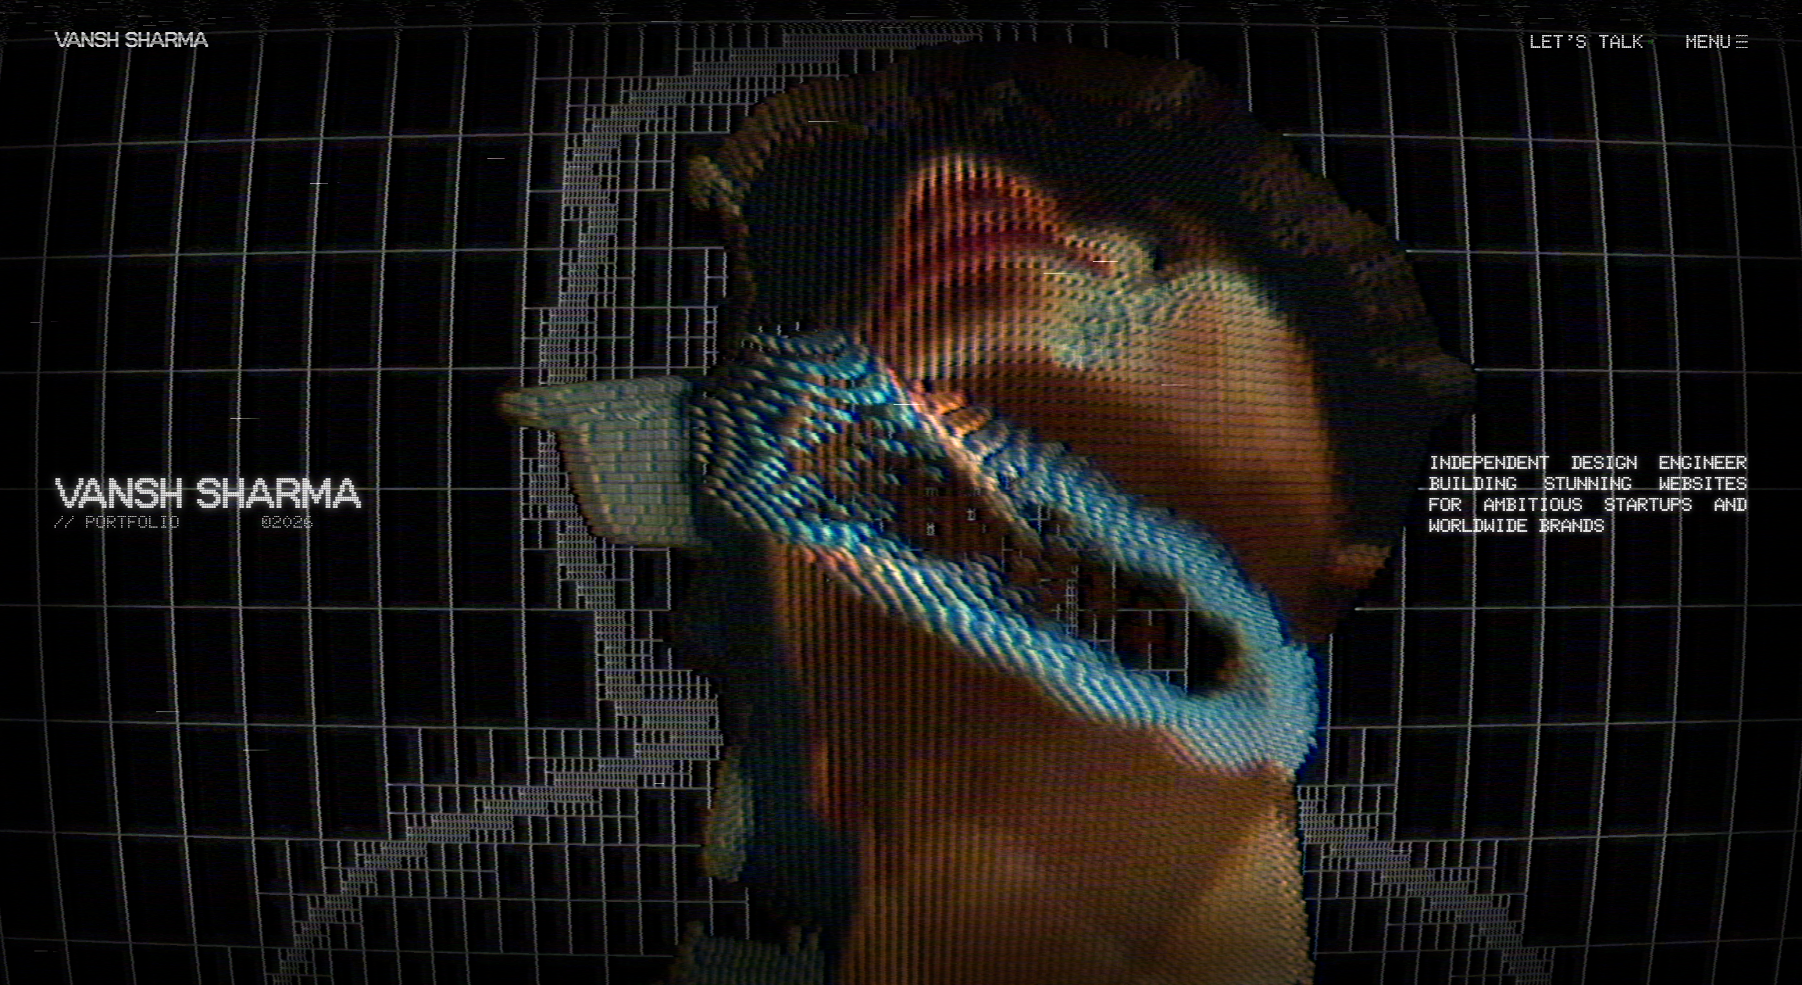
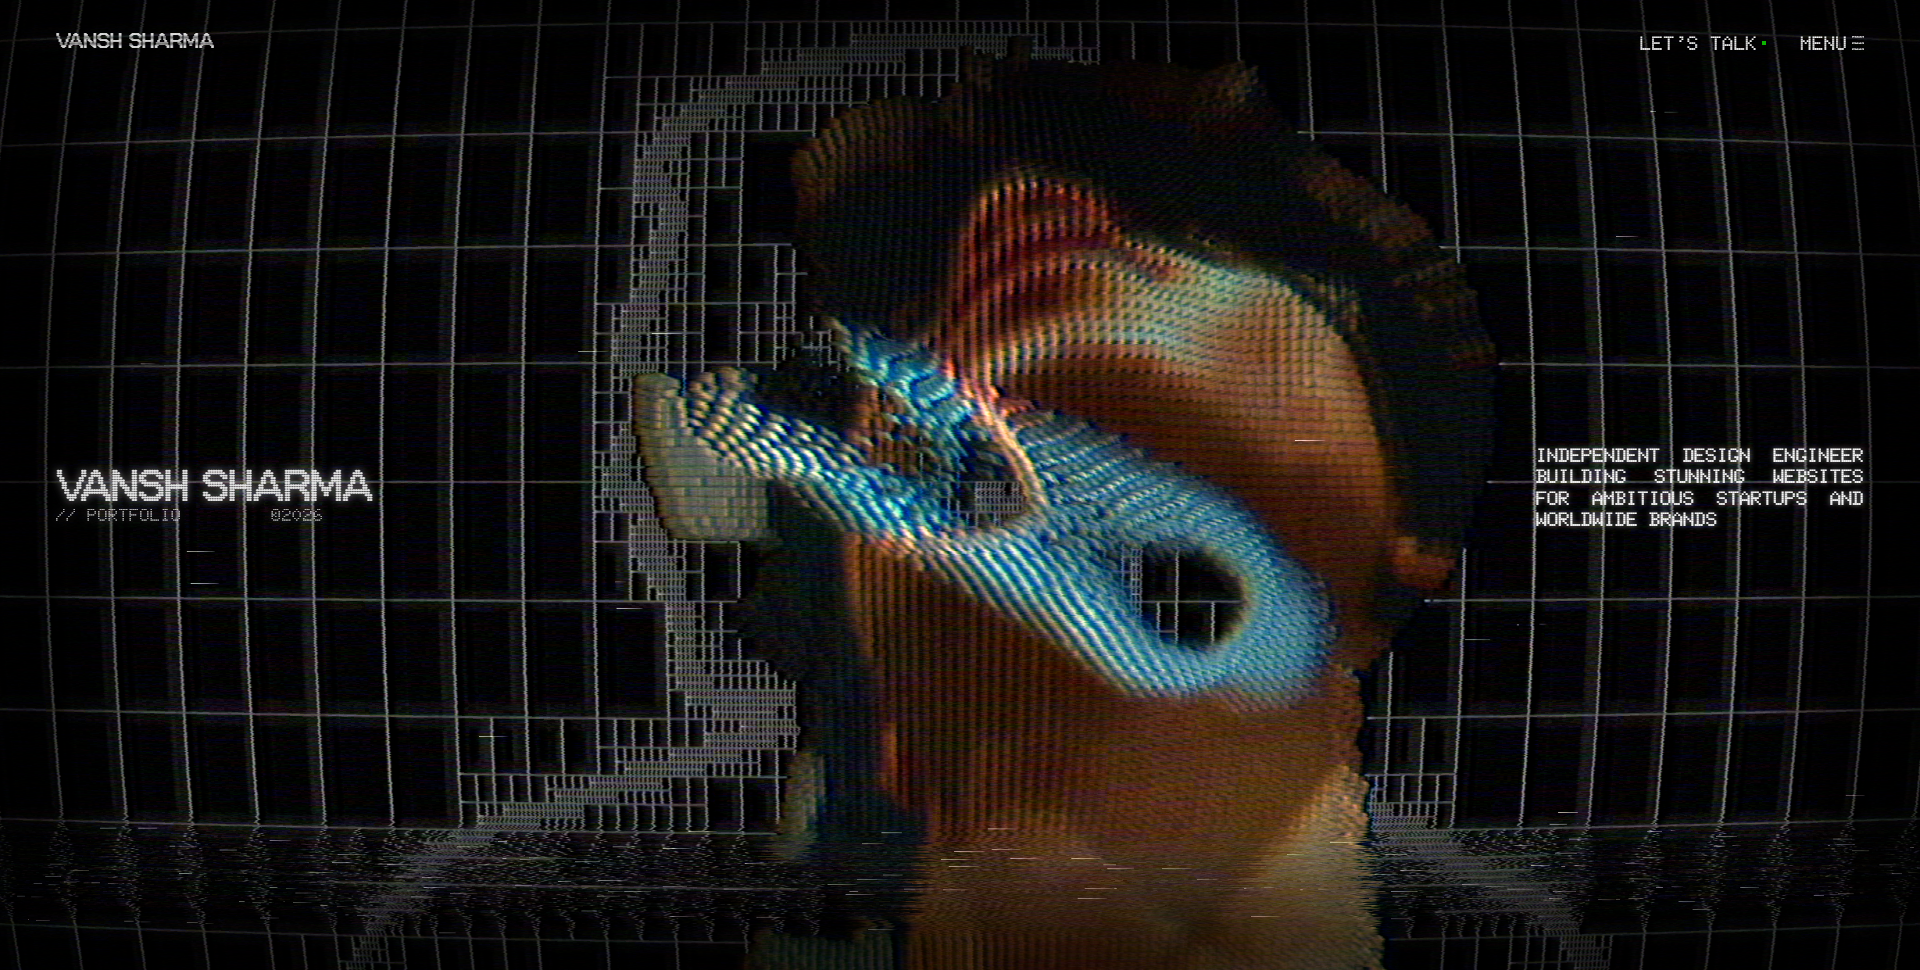
feat(hero): sharp facial micro-relief depth for hair curls, eyes, nose, lips and jaw

diff --git a/build_hd_atlas.py b/build_hd_atlas.py
@@ -1,0 +1,147 @@
+import numpy as np
+from PIL import Image, ImageFilter, ImageEnhance
+from scipy.ndimage import gaussian_filter, sobel
+
+# 1. Load clean centered crop
+orig = Image.open('public/vansh-photo.jpg').convert('RGB')
+crop = orig.crop((0, 301, 597, 898))
+face_151 = crop.resize((151, 151), Image.Resampling.LANCZOS)
+
+# 2. Extract Color & Multi-Scale Luminance Signals
+color_arr = np.array(face_151, dtype=np.float32)
+r, g, b = color_arr[:,:,0], color_arr[:,:,1], color_arr[:,:,2]
+lum = (0.299 * r + 0.587 * g + 0.114 * b) / 255.0
+
+y_idx, x_idx = np.mgrid[0:151, 0:151]
+cx = 86.0  # Center of face in 151x151
+cy = 66.0  # Center of head
+
+# 3. Precise Masking: Filter Ceiling, Wall, and Chandelier
+white_wall = (r > 75) & (g > 65) & (b > 55) & (np.abs(r - g) < 22) & (y_idx < 65)
+green_wall = (g > r) & (g > b) & (g > 35)
+lamp = (y_idx < 35) & (color_arr.mean(axis=2) < 45) & (np.abs(x_idx - 75) < 30)
+bg_mask = white_wall | green_wall | lamp
+
+# Anatomical Boundaries
+head_dist = np.sqrt(((x_idx - cx) / 44.0)**2 + ((y_idx - cy) / 40.0)**2)
+head_mask = (head_dist <= 1.0) & ~bg_mask
+
+neck_w = np.maximum(20.0 + (y_idx - 78.0) * 0.28, 1.0)
+neck_dist_x = np.abs(x_idx - cx) / neck_w
+neck_mask = (y_idx >= 78) & (y_idx <= 136) & (neck_dist_x <= 1.0) & ~bg_mask
+
+shoulder_w = np.maximum(36.0 + (y_idx - 130.0) * 1.2, 1.0)
+shoulder_dist_x = np.abs(x_idx - cx) / shoulder_w
+shoulder_mask = (y_idx > 130) & (shoulder_dist_x <= 1.0) & ~bg_mask
+
+hair_mask = (head_dist <= 1.16) & (y_idx <= cy + 5) & ~bg_mask
+person_mask = head_mask | neck_mask | shoulder_mask | hair_mask
+
+# 4. Multi-Scale Frequency Decomposition
+# Fine band: individual curly hair strands, skin pores, edge definition
+dog_fine = gaussian_filter(lum, sigma=0.7) - gaussian_filter(lum, sigma=2.0)
+# Mid band: nasal bridge, ocular sockets, philtrum, vermilion borders, trachea
+dog_mid  = gaussian_filter(lum, sigma=2.0) - gaussian_filter(lum, sigma=6.0)
+# Gradient magnitude for crisp edge boundaries
+sx = sobel(lum, axis=1)
+sy = sobel(lum, axis=0)
+edge_mag = np.hypot(sx, sy)
+
+# 5. Anatomical Sculptural 3D Base Depth
+depth = np.zeros((151, 151), dtype=np.float32)
+
+# 5a. Spherical Head Dome (gaze tilted upwards)
+head_sphere = np.clip(1.0 - head_dist**1.7, 0.0, 1.0)
+depth[head_mask] = 0.62 + 0.22 * head_sphere[head_mask]
+
+# 5b. High-Definition Facial Landmarks (Upward Perspective)
+# Nose bridge and tip protrusion
+nose_center = (cx, 55.0)
+nose_dist = np.sqrt(((x_idx - nose_center[0]) / 9.0)**2 + ((y_idx - nose_center[1]) / 12.0)**2)
+nose_protrusion = np.exp(-nose_dist**2) * 0.14
+depth += nose_protrusion
+
+# Chin / Jawline protrusion
+chin_center = (cx, 82.0)
+chin_dist = np.sqrt(((x_idx - chin_center[0]) / 15.0)**2 + ((y_idx - chin_center[1]) / 12.0)**2)
+chin_protrusion = np.exp(-chin_dist**2) * 0.12
+depth += chin_protrusion
+
+# Recessed Eye Sockets (orbital depressions)
+left_eye = (cx - 16.0, 48.0)
+right_eye = (cx + 16.0, 48.0)
+dist_le = np.sqrt(((x_idx - left_eye[0]) / 10.0)**2 + ((y_idx - left_eye[1]) / 8.0)**2)
+dist_re = np.sqrt(((x_idx - right_eye[0]) / 10.0)**2 + ((y_idx - right_eye[1]) / 8.0)**2)
+socket_depression = (np.exp(-dist_le**2) + np.exp(-dist_re**2)) * 0.08
+depth -= socket_depression
+
+# Lips structure (upper and lower lip curvature with recessed mouth slit)
+mouth_center = (cx, 71.0)
+mouth_dist = np.sqrt(((x_idx - mouth_center[0]) / 12.0)**2 + ((y_idx - mouth_center[1]) / 6.0)**2)
+lip_mound = np.exp(-mouth_dist**2) * 0.07
+depth += lip_mound
+
+# 5c. Stepped Jawline over Neck
+# Jawline boundary: arc passing through chin (86, 82) to angle of jaw (68, 72) and (104, 72)
+jaw_arc_y = 82.0 - 0.035 * (x_idx - cx)**2
+is_jaw_overhang = (y_idx <= jaw_arc_y) & (y_idx >= 60) & (np.abs(x_idx - cx) <= 24)
+depth[is_jaw_overhang] = np.maximum(depth[is_jaw_overhang], 0.82)
+
+# 5d. Neck Cylindrical Curvature & Adam's Apple
+neck_curve = np.clip(1.0 - neck_dist_x**1.8, 0.0, 1.0)
+neck_gradient = 0.84 - (y_idx - 78.0) / 58.0 * 0.22
+neck_depth = neck_gradient + 0.07 * neck_curve
+
+# Adam's apple vertical ridge along midline of neck
+adams_apple = np.exp(-(((x_idx - cx) / 7.0)**2 + ((y_idx - 98.0) / 14.0)**2)) * 0.06
+neck_depth += adams_apple
+
+depth[neck_mask] = np.maximum(depth[neck_mask], neck_depth[neck_mask])
+
+# 5e. Shoulders depth
+shoulder_curve = np.clip(1.0 - (shoulder_dist_x * 0.7)**2, 0.0, 1.0)
+shoulder_depth = 0.62 - (y_idx - 130.0) / 21.0 * 0.16 + 0.06 * shoulder_curve
+depth[shoulder_mask] = np.maximum(depth[shoulder_mask], shoulder_depth[shoulder_mask])
+
+# 5f. Curly Hair High-Frequency Micro-Relief
+# Combine fine and mid DoG to create tactile volume for every curl
+hair_relief = np.clip(dog_fine * 0.16 + dog_mid * 0.10, -0.08, 0.12)
+depth[hair_mask] += hair_relief[hair_mask]
+
+# Facial micro-relief (skin contours, philtrum, cheekbones)
+face_relief = np.clip(dog_mid * 0.08 + dog_fine * 0.04, -0.06, 0.08)
+depth[head_mask & ~hair_mask] += face_relief[head_mask & ~hair_mask]
+
+# Ensure valid depth range [0.38, 0.98] on the body, 0.0 on background
+depth = np.clip(depth, 0.38, 0.98)
+depth[~person_mask] = 0.0
+
+# 6. High-Pass Contrast Sharpening for Color Channel
+enhancer = ImageEnhance.Contrast(face_151)
+face_contrast = enhancer.enhance(1.25)
+enhancer_sharp = ImageEnhance.Sharpness(face_contrast)
+face_sharp = enhancer_sharp.enhance(1.4)
+color_arr = np.array(face_sharp, dtype=np.float32)
+
+# Soft background mask for zero-halo silhouette
+soft_mask = Image.fromarray((person_mask.astype(np.uint8) * 255), mode='L').filter(ImageFilter.GaussianBlur(radius=1.5))
+soft_mask_arr = np.array(soft_mask, dtype=np.float32) / 255.0
+
+for c in range(3):
+    color_arr[:, :, c] = (color_arr[:, :, c] * soft_mask_arr).astype(np.uint8)
+
+# Smooth depth map slightly (radius 0.7) to preserve crisp micro-relief without voxel tearing
+depth_scaled = np.clip(depth, 0.0, 1.0) * 255.0
+depth_img = Image.fromarray(depth_scaled.astype(np.uint8), mode='L')
+depth_img = depth_img.filter(ImageFilter.GaussianBlur(radius=0.7))
+
+# 7. Assemble 304 x 152 Texture Atlas
+atlas = Image.new('RGB', (304, 152), (0, 0, 0))
+atlas.paste(Image.fromarray(color_arr.astype(np.uint8)), (0, 0))
+atlas.paste(depth_img.convert('RGB'), (153, 0))
+
+atlas.save('public/vansh-portrait-atlas.png')
+atlas.save('vansh-portrait-atlas.png')
+
+print('High-Definition 3D Facial Micro-Relief Atlas generated successfully!')
+print(f'Depth range: {depth[person_mask].min():.3f} to {depth[person_mask].max():.3f}, mean: {depth[person_mask].mean():.3f}')
